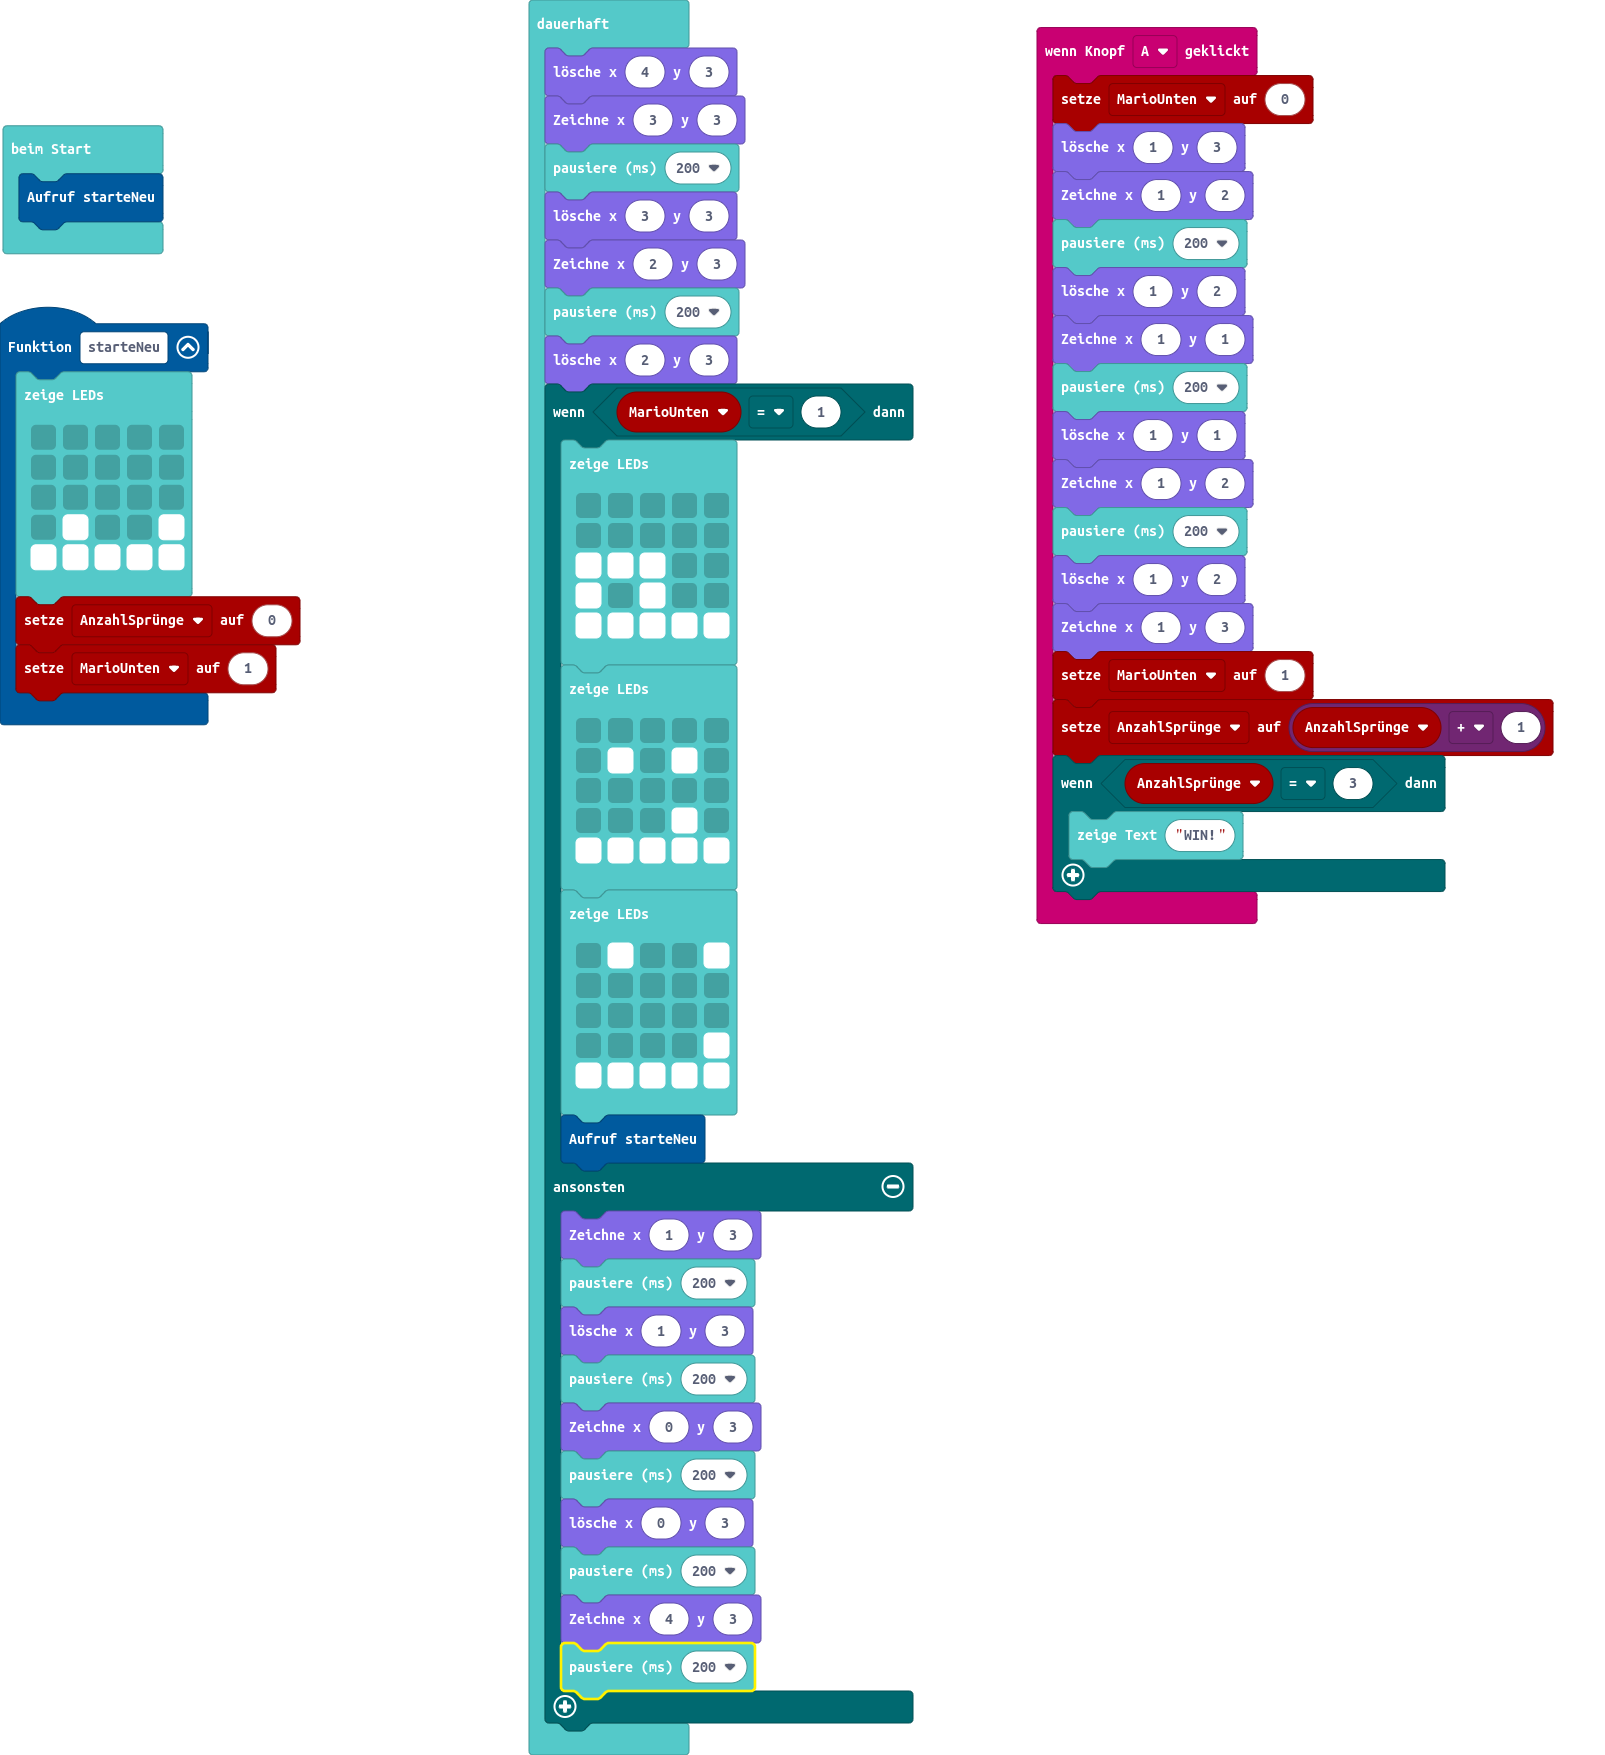
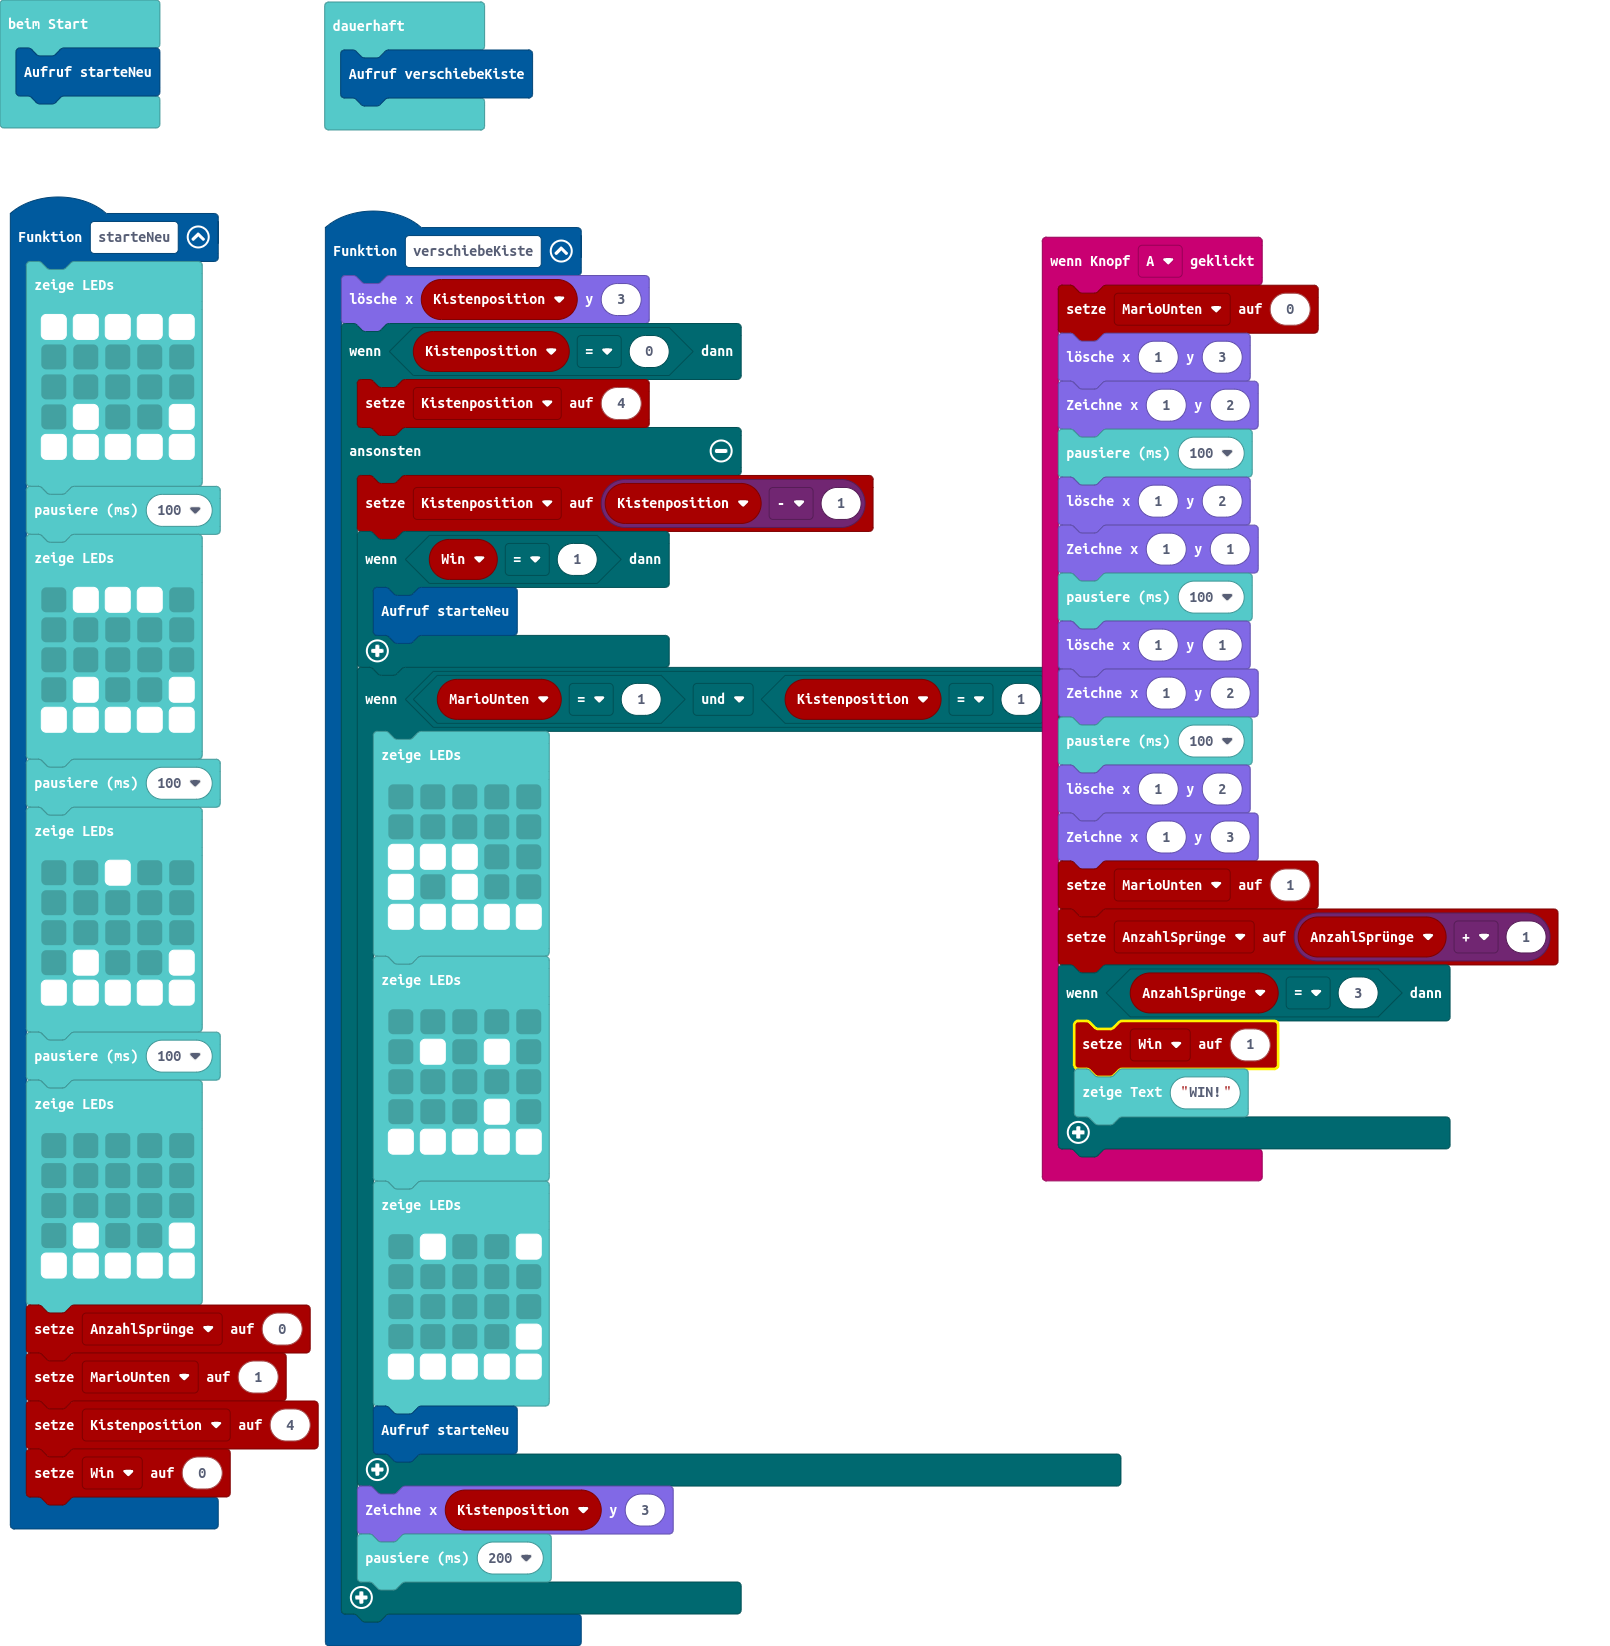
Aktualisiere main.blocks, main.ts

diff --git a/main.ts b/main.ts
@@ -2,22 +2,47 @@ input.onButtonPressed(Button.A, function () {
     MarioUnten = 0
     led.unplot(1, 3)
     led.plot(1, 2)
-    basic.pause(200)
+    basic.pause(100)
     led.unplot(1, 2)
     led.plot(1, 1)
-    basic.pause(200)
+    basic.pause(100)
     led.unplot(1, 1)
     led.plot(1, 2)
-    basic.pause(200)
+    basic.pause(100)
     led.unplot(1, 2)
     led.plot(1, 3)
     MarioUnten = 1
     AnzahlSprünge = AnzahlSprünge + 1
     if (AnzahlSprünge == 3) {
+        Win = 1
         basic.showString("WIN!")
     }
 })
 function starteNeu () {
+    basic.showLeds(`
+        # # # # #
+        . . . . .
+        . . . . .
+        . # . . #
+        # # # # #
+        `)
+    basic.pause(100)
+    basic.showLeds(`
+        . # # # .
+        . . . . .
+        . . . . .
+        . # . . #
+        # # # # #
+        `)
+    basic.pause(100)
+    basic.showLeds(`
+        . . # . .
+        . . . . .
+        . . . . .
+        . # . . #
+        # # # # #
+        `)
+    basic.pause(100)
     basic.showLeds(`
         . . . . .
         . . . . .
@@ -27,51 +52,51 @@ function starteNeu () {
         `)
     AnzahlSprünge = 0
     MarioUnten = 1
+    Kistenposition = 4
+    Win = 0
 }
+function verschiebeKiste () {
+    led.unplot(Kistenposition, 3)
+    if (Kistenposition == 0) {
+        Kistenposition = 4
+    } else {
+        Kistenposition = Kistenposition - 1
+        if (Win == 1) {
+            starteNeu()
+        }
+        if (MarioUnten == 1 && Kistenposition == 1) {
+            basic.showLeds(`
+                . . . . .
+                . . . . .
+                # # # . .
+                # . # . .
+                # # # # #
+                `)
+            basic.showLeds(`
+                . . . . .
+                . # . # .
+                . . . . .
+                . . . # .
+                # # # # #
+                `)
+            basic.showLeds(`
+                . # . . #
+                . . . . .
+                . . . . .
+                . . . . #
+                # # # # #
+                `)
+            starteNeu()
+        }
+        led.plot(Kistenposition, 3)
+        basic.pause(200)
+    }
+}
+let Kistenposition = 0
+let Win = 0
 let AnzahlSprünge = 0
 let MarioUnten = 0
 starteNeu()
 basic.forever(function () {
-    led.unplot(4, 3)
-    led.plot(3, 3)
-    basic.pause(200)
-    led.unplot(3, 3)
-    led.plot(2, 3)
-    basic.pause(200)
-    led.unplot(2, 3)
-    if (MarioUnten == 1) {
-        basic.showLeds(`
-            . . . . .
-            . . . . .
-            # # # . .
-            # . # . .
-            # # # # #
-            `)
-        basic.showLeds(`
-            . . . . .
-            . # . # .
-            . . . . .
-            . . . # .
-            # # # # #
-            `)
-        basic.showLeds(`
-            . # . . #
-            . . . . .
-            . . . . .
-            . . . . #
-            # # # # #
-            `)
-        starteNeu()
-    } else {
-        led.plot(1, 3)
-        basic.pause(200)
-        led.unplot(1, 3)
-        basic.pause(200)
-        led.plot(0, 3)
-        basic.pause(200)
-        led.unplot(0, 3)
-        basic.pause(200)
-        led.plot(4, 3)
-        basic.pause(200)
-    }
+    verschiebeKiste()
 })
